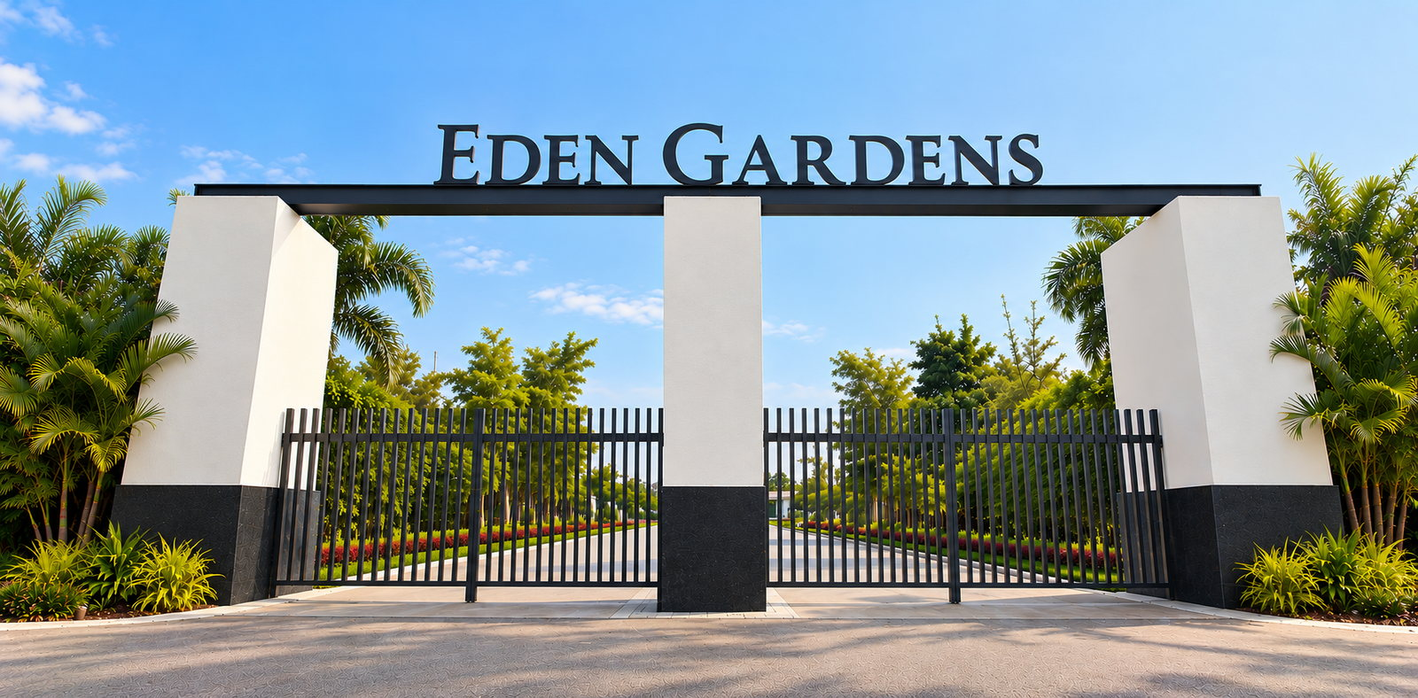
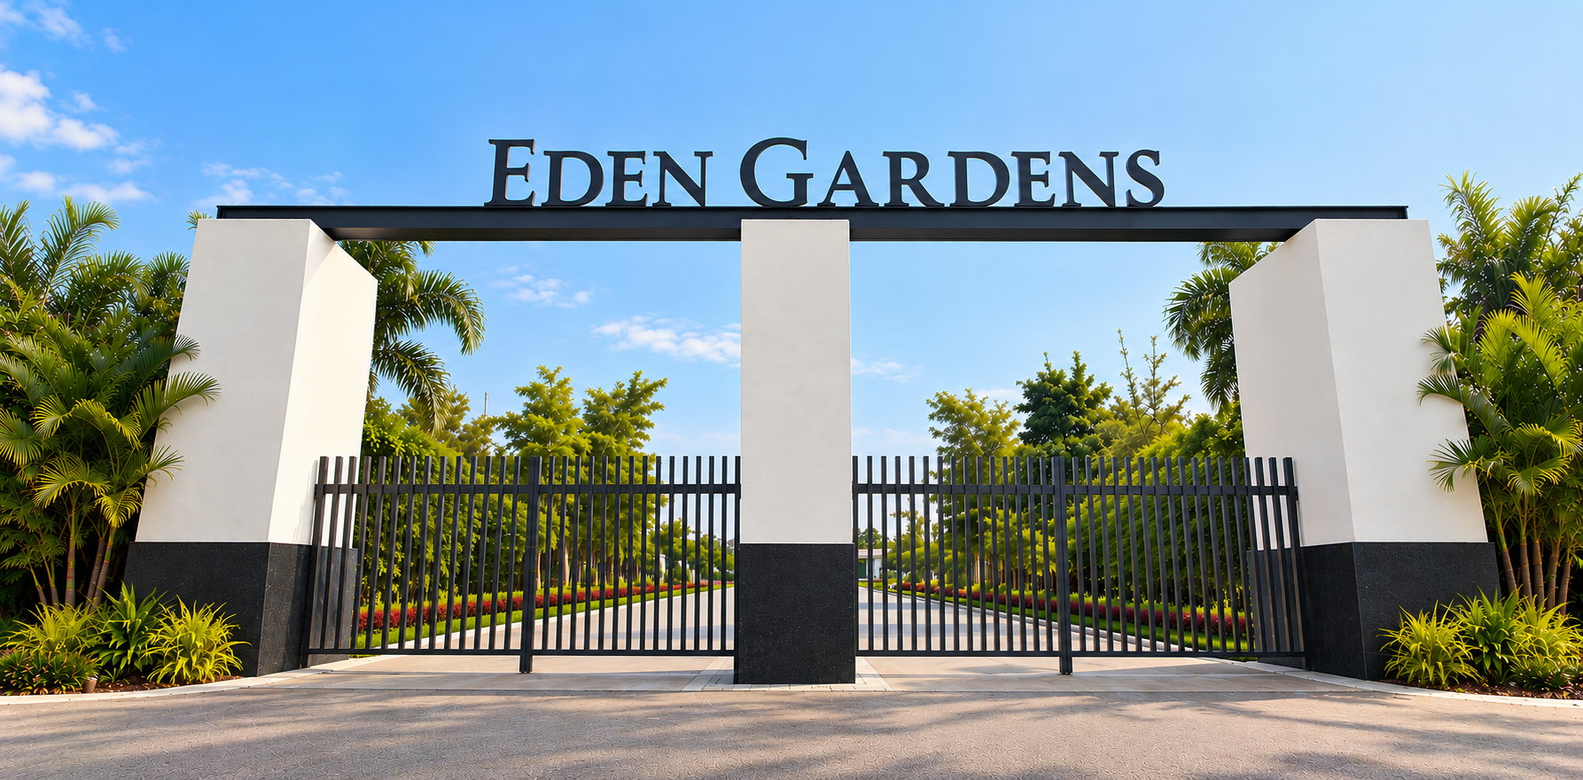
Home hero rebuilt as a full-screen stage: each arch fills the screen, drifts, and the next sweeps in behind a gold line; rail of all five; header menu holds one line

diff --git a/assets/style.css b/assets/style.css
@@ -698,57 +698,95 @@ html { scrollbar-width: thin; scrollbar-color: var(--mist) var(--paper); }
 .tile .status { position: static; align-self: flex-start; margin: 34px 32px 0; max-width: calc(100% - 64px); }
 .tile .inner { position: static; width: 100%; margin: auto auto 0; padding-top: 28px; }
 
-/* ---------- home hero: the wall of arches ----------
-   Five entrances, all in view: one large, four small. Every few seconds they change places.
-   Statement on the left, the wall on the right; on narrow screens the wall sits above the statement. */
-.hero-wall { display: grid; grid-template-columns: minmax(0, 46fr) minmax(0, 54fr); grid-template-rows: minmax(calc(100vh - 87px), auto); align-items: stretch; padding: 87px 0 0; }
-.hero-wall::after { display: none; }
-.hero-wall .inner { order: 1; align-self: center; max-width: none; margin: 0; padding: 40px 40px 48px max(32px, calc((100vw - var(--maxw)) / 2 + 32px)); container-type: inline-size; }
-.hero-wall h1 { max-width: none; font-size: clamp(1.7rem, 2.6vw, 2.5rem); line-height: 1.18; }
-@supports (font-size: 1cqw) { .hero-wall h1 { font-size: clamp(1.45rem, 8.05cqw, 3.1rem); } }   /* sized to its column, so each sentence holds one line */
-.hero-wall h1 span { display: block; white-space: nowrap; }
-.hero-wall .lede { max-width: 40ch; text-wrap: balance; }
-.wall { order: 2; display: grid; grid-template-columns: 1fr 1fr; grid-template-rows: 57fr 21.5fr 21.5fr; gap: 4px; background: var(--ink); min-height: 0; }
-.wslot { position: relative; overflow: hidden; background: var(--ink-soft); min-height: 0; }
-.wslot-0 { grid-column: 1 / -1; }
-.wl { position: absolute; inset: 0; display: block; opacity: 0; pointer-events: none; transition: opacity 1.3s ease; color: #fff; text-decoration: none; }
-.wl.on { opacity: 1; pointer-events: auto; }
-.wimg { position: absolute; inset: 0; background-size: cover; background-position: 50% 50%; transform: scale(1); transition: transform 10s linear; }
-.wslot-0 .wl.on .wimg { transform: scale(1.06); }
-.wl::after { content: ""; position: absolute; left: 0; right: 0; bottom: 0; height: 46%; background: linear-gradient(to top, rgba(13,11,7,0.78), rgba(13,11,7,0)); }
-.wcap { position: absolute; left: 18px; right: 18px; bottom: 13px; z-index: 1; display: flex; flex-wrap: wrap; align-items: baseline; gap: 2px 12px; }
-.wcap b { font-weight: 500; font-size: 0.62rem; letter-spacing: 0.24em; text-transform: uppercase; color: var(--champagne); }
-.wcap i { font-style: normal; font-size: 0.8rem; letter-spacing: 0.02em; color: #fff; }
-.wslot-0 .wcap { left: 26px; bottom: 20px; }
-.wslot-0 .wcap b { font-size: 0.7rem; }
-.wslot-0 .wcap i { font-family: "Fraunces", Georgia, serif; font-size: 1.35rem; font-weight: 400; }
-.wnote { flex-basis: 100%; font-size: 0.5rem; letter-spacing: 0.06em; line-height: 1.5; color: rgba(255,255,255,0.72); }   /* a footnote under the caption, on the dark of the tile */
-.wl:focus-visible { outline: 2px solid var(--champagne); outline-offset: -4px; }
-/* where each picture is held, so the name on the arch stays in frame at every tile shape */
-.p-parkcentral .wimg { background-position: 27% 45%; }
-.p-greens .wimg { background-position: 50% 22%; }
-.p-fortunefields .wimg { background-position: 50% 45%; }
-.p-edengardens .wimg { background-position: 50% 50%; }
-.p-dreamacres .wimg { background-position: 50% 38%; }
-@media (max-width: 1023px) {
-  .hero-wall { display: block; min-height: 0; padding: 87px 0 0; }
-  .hero-wall .inner { padding: 34px 32px 44px; }
-  .hero-wall h1 { font-size: clamp(1.4rem, 6.3vw, 2.6rem); }
-  @supports (font-size: 1cqw) { .hero-wall h1 { font-size: clamp(1.4rem, 8.05cqw, 2.9rem); } }
-  .wall { grid-template-rows: none; gap: 3px; }
-  .wslot { aspect-ratio: 2 / 1; }
-  .wslot-0 { aspect-ratio: 16 / 9.4; }
-  .wcap { left: 11px; right: 8px; bottom: 8px; gap: 1px 8px; }
-  .wcap b { font-size: 0.5rem; letter-spacing: 0.18em; }
-  .wcap i { font-size: 0.68rem; }
-  .wslot:not(.wslot-0) .wn { display: none; }                 /* small tiles: the arch itself carries the name */
-  .wslot-0 .wcap { left: 16px; bottom: 14px; }
-  .wslot-0 .wcap b { font-size: 0.6rem; }
-  .wslot-0 .wcap i { font-size: 1.12rem; }
-  .wnote { font-size: 0.44rem; }
+/* ---------- home hero: the stage ----------
+   One entrance at a time fills the screen and never sits still: it drifts forward, and the next one sweeps in
+   behind a thin gold line. All five stay in view on a rail; the rail shows whose turn it is and lets you choose. */
+.hero-stage { display: grid; grid-template-columns: minmax(0, 1fr) auto; grid-template-rows: minmax(calc(100vh - 87px), auto); align-items: end; padding: 87px 0 0; min-height: 100vh; overflow: hidden; }
+.hero-stage::after { display: none; }
+.st-bg { position: absolute; inset: 87px 0 0 0; z-index: -2; overflow: hidden; background: var(--ink); }   /* starts below the fixed header, so no arch hides behind it */
+.st-img { position: absolute; inset: -1.5%; opacity: 0; }
+.st-img.on, .st-img.out { opacity: 1; }
+.st-img.on { z-index: 2; }
+.st-img.out { z-index: 1; }
+.st-pic { position: absolute; inset: 0; width: 100%; height: 100%; object-fit: cover; object-position: 50% 50%; transform: scale(1.03); will-change: transform; }
+.st-pic:not([src]) { visibility: hidden; }
+.st-img.on .st-pic, .st-img.out .st-pic { animation: stPush 9s linear both; }
+.st-img.in { animation: stWipe 1.25s cubic-bezier(.77,0,.18,1) both; }
+.st-img.in .st-pic { animation: stEnter 1.25s cubic-bezier(.77,0,.18,1) both, stPush 9s linear 1.25s forwards; }
+@keyframes stPush { from { transform: scale(1.03) translate3d(0,0,0); } to { transform: scale(1.12) translate3d(-0.8%, -0.6%, 0); } }
+@keyframes stEnter { from { transform: scale(1.12) translate3d(4%,0,0); } to { transform: scale(1.03) translate3d(0,0,0); } }
+@keyframes stWipe { from { clip-path: inset(0 0 0 100%); } to { clip-path: inset(0 0 0 0); } }
+.st-edge { position: absolute; top: 0; bottom: 0; left: 100%; width: 2px; z-index: 3; background: var(--champagne); opacity: 0; pointer-events: none; }
+.st-edge.run { animation: stEdge 1.25s cubic-bezier(.77,0,.18,1) both; }
+@keyframes stEdge { 0% { left: 100%; opacity: 0.95; } 85% { opacity: 0.95; } 100% { left: 0%; opacity: 0; } }
+.st-scrim { position: absolute; inset: 87px 0 0 0; z-index: -1; pointer-events: none;
+  background:
+    radial-gradient(ellipse 58% 78% at 0% 100%, rgba(13,11,7,0.94) 0%, rgba(13,11,7,0.74) 42%, rgba(13,11,7,0) 78%),
+    radial-gradient(ellipse 58% 80% at 100% 100%, rgba(13,11,7,0.86) 0%, rgba(13,11,7,0.50) 40%, rgba(13,11,7,0) 72%),
+    linear-gradient(to top, rgba(13,11,7,0.72) 0%, rgba(13,11,7,0.18) 30%, rgba(13,11,7,0) 52%); }
+.hero-stage .inner { max-width: none; margin: 0; padding: 0 32px 7vh max(32px, calc((100vw - var(--maxw)) / 2 + 32px)); }
+.hero-stage h1 { max-width: none; font-size: clamp(1.7rem, min(3.3vw, 6.4vh), 3.2rem); line-height: 1.14; text-shadow: 0 2px 20px rgba(13,11,7,0.7), 0 0 2px rgba(13,11,7,0.35); }
+.hero-stage h1 span { display: block; white-space: nowrap; }
+.hero-stage .lede { max-width: 42ch; margin-top: 20px; text-wrap: balance; color: #E9E3D4; text-shadow: 0 1px 14px rgba(13,11,7,0.6); }
+.hero-stage .eyebrow { text-shadow: 0 1px 12px rgba(13,11,7,0.8); }
+/* right-hand side: who is on stage, and the rail of all five */
+.st-side { justify-self: end; display: flex; flex-direction: column; align-items: flex-end; gap: 22px; padding: 0 118px 7vh 32px; color: #fff; }
+.st-now { display: grid; justify-items: end; }
+.st-cap { grid-area: 1 / 1; display: grid; justify-items: end; gap: 3px; text-align: right; color: #fff; text-decoration: none; opacity: 0; transform: translateY(14px); pointer-events: none; transition: opacity 0.6s ease, transform 0.8s cubic-bezier(.2,.7,.2,1); }
+.st-cap.on { opacity: 1; transform: none; pointer-events: auto; transition-delay: 0.45s; }
+.st-cap b { font-weight: 600; font-size: 0.68rem; letter-spacing: 0.3em; text-transform: uppercase; color: var(--champagne); text-shadow: 0 1px 12px rgba(13,11,7,0.85); }
+.st-cap strong { font-family: "Fraunces", Georgia, serif; font-weight: 400; font-size: clamp(1.6rem, 2.5vw, 2.5rem); line-height: 1.1; text-shadow: 0 2px 22px rgba(13,11,7,0.5); }
+.st-cap i { font-style: normal; font-size: 0.9rem; letter-spacing: 0.06em; color: #E9E3D4; }
+.st-cap small { font-size: 0.52rem; letter-spacing: 0.06em; color: rgba(255,255,255,0.72); }
+.st-cap .go { margin-top: 10px; font-size: 0.7rem; font-weight: 600; letter-spacing: 0.28em; text-transform: uppercase; border-bottom: 1px solid var(--gold); padding-bottom: 5px; }
+.st-cap:hover .go { color: var(--champagne); }
+.st-rail { display: flex; gap: 10px; }
+.st-card { position: relative; width: clamp(88px, 8.6vw, 136px); padding: 0; border: 0; background: none; color: #fff; cursor: pointer; text-align: left; font: inherit; }
+.st-thumb { display: block; width: 100%; aspect-ratio: 16 / 9; background-size: cover; background-position: 50% 35%; opacity: 0.62; filter: saturate(0.8); transition: opacity 0.4s, filter 0.4s, transform 0.5s cubic-bezier(.2,.7,.2,1); outline: 1px solid rgba(255,255,255,0.22); outline-offset: -1px; }
+.st-card:hover .st-thumb, .st-card.on .st-thumb { opacity: 1; filter: none; }
+.st-card.on .st-thumb { transform: translateY(-5px); outline-color: var(--champagne); }
+.st-card em { display: block; margin-top: 8px; font-style: normal; font-size: 0.56rem; font-weight: 500; letter-spacing: 0.18em; text-transform: uppercase; color: rgba(255,255,255,0.7); white-space: nowrap; overflow: hidden; text-overflow: ellipsis; }
+.st-card.on em { color: var(--champagne); }
+.st-bar { position: absolute; left: 0; top: -5px; height: 2px; width: 0; background: var(--champagne); }
+.st-card.on .st-bar { animation: stBar var(--dwell, 5.6s) linear both; }
+.hero-stage.paused .st-card.on .st-bar { animation-play-state: paused; }
+@keyframes stBar { from { width: 0; } to { width: 100%; } }
+.st-card:focus-visible .st-thumb, .st-cap:focus-visible { outline: 2px solid var(--champagne); outline-offset: 3px; }
+.st-img.p-parkcentral .st-pic { object-position: 30% 42%; }
+.st-img.p-greens .st-pic { object-position: 50% 19%; }
+.st-img.p-fortunefields .st-pic { object-position: 50% 42%; }
+.st-img.p-edengardens .st-pic { object-position: 50% 45%; }
+.st-img.p-dreamacres .st-pic { object-position: 50% 36%; }
+@media (max-width: 1180px) { .st-cap strong { font-size: 1.7rem; } .st-side { padding-right: 104px; } }
+/* short windows (a laptop with toolbars open): the statement steps back so the arch keeps the stage */
+@media (min-width: 901px) and (max-height: 720px) {
+  .hero-stage .lede { display: none; }
+  .hero-stage .inner, .st-side { padding-bottom: 5vh; }
+  .st-side { gap: 14px; }
+  .st-cap .go { margin-top: 6px; }
 }
-@media (prefers-reduced-motion: reduce) { .wslot-0 .wl.on .wimg { transform: none; } }
-
+@media (max-width: 900px) {
+  /* phones and small tablets: the stage on top, then the rail, then the statement */
+  .hero-stage { display: flex; flex-direction: column; align-items: stretch; min-height: 0; padding: 87px 0 0; }
+  .st-bg { order: 1; } .st-side { order: 2; } .hero-stage .inner { order: 3; }
+  .st-bg { position: relative; inset: auto; z-index: 0; height: clamp(250px, 74vw, 56vh); }
+  .st-scrim { display: none; }
+  .st-side { align-items: stretch; gap: 14px; padding: 18px 20px 4px; justify-self: auto; }
+  .st-now, .st-cap { justify-items: start; text-align: left; }
+  .st-cap { grid-template-columns: auto 1fr; align-items: baseline; column-gap: 12px; }
+  .st-cap strong { grid-column: 1 / -1; grid-row: 1; font-size: 1.7rem; }
+  .st-cap b { grid-row: 2; } .st-cap i { grid-row: 2; }
+  .st-cap small { grid-column: 1 / -1; }
+  .st-cap .go { display: none; }
+  .st-rail { display: grid; grid-template-columns: repeat(5, 1fr); gap: 6px; padding-top: 6px; }
+  .st-card { width: auto; }
+  .st-card em { font-size: 0.46rem; letter-spacing: 0.1em; white-space: normal; line-height: 1.35; margin-top: 6px; }
+  .st-card.on .st-thumb { transform: none; }
+  .hero-stage .inner { padding: 30px 20px 44px; width: auto; }
+  .hero-stage h1 { font-size: clamp(1.5rem, 7.2vw, 2.6rem); text-shadow: none; }
+  .hero-stage .lede, .hero-stage .eyebrow { text-shadow: none; }
+}
+@media (prefers-reduced-motion: reduce) { .st-pic { transform: none; } }
 
 /* ---------- Park Central: site photographs ---------- */
 .pc-gallery { display: grid; grid-template-columns: 1fr 1fr; gap: 10px; }
@@ -756,3 +794,12 @@ html { scrollbar-width: thin; scrollbar-color: var(--mist) var(--paper); }
 .pc-gallery img { display: block; width: 100%; aspect-ratio: 4 / 3; object-fit: cover; }
 .pc-gallery figcaption { position: absolute; left: 0; right: 0; bottom: 0; padding: 34px 18px 13px; color: #fff; font-size: 0.72rem; letter-spacing: 0.2em; text-transform: uppercase; background: linear-gradient(to top, rgba(13,11,7,0.72), rgba(13,11,7,0)); }
 @media (max-width: 560px) { .pc-gallery { grid-template-columns: 1fr; } }
+
+/* ---------- header: the menu holds one line on small laptops and tablets held sideways ---------- */
+.nav a { white-space: nowrap; }
+@media (min-width: 901px) and (max-width: 1180px) {
+  .site-header .bar { gap: 16px; padding-left: 24px; padding-right: 24px; }
+  .nav { gap: 20px; }
+  .nav a { letter-spacing: 0.14em; }
+}
+

diff --git a/index.html b/index.html
@@ -10,7 +10,7 @@
 <link rel="preconnect" href="https://fonts.googleapis.com">
 <link rel="preconnect" href="https://fonts.gstatic.com" crossorigin>
 <link href="https://fonts.googleapis.com/css2?family=Fraunces:opsz,wght@9..144,400;9..144,500;9..144,600&family=Archivo:wght@400;500;600&display=swap" rel="stylesheet">
-<link rel="stylesheet" href="/assets/style.css?v=24">
+<link rel="stylesheet" href="/assets/style.css?v=25">
 <meta property="og:title" content="Epic Developers">
 <meta property="og:description" content="Premium developers of approved open plot layouts and select farm sites in Hyderabad since 2016. Now selling: Park Central at Dundigal and The Greens at Kadthal. Launching soon: Fortune Fields at Yacharam. Delivered and sold out: Eden Gardens at Mokila and Dream Acres at Dasarlapally.">
 <meta property="og:image" content="https://epicdevelopers.in/assets/img/share-arch.jpg">
@@ -34,43 +34,36 @@
   </div>
 </header>
 
-<section class="hero hero-wall">
-  <div class="wall" id="arch-wall">
-    <div class="wslot wslot-0">
-      <a class="wl on p-parkcentral" href="/parkcentral/" data-p="0" aria-label="Park Central, Dundigal &mdash; Selling now">
-        <span class="wimg" style="background-image:url('/assets/img/arch-parkcentral.jpg')"></span>
-        <span class="wcap"><b>Selling now</b><i><span class="wn">Park Central, </span>Dundigal</i></span>
-      </a>
-    </div>
-    <div class="wslot wslot-1">
-      <a class="wl on p-greens" href="/the-greens/" data-p="1" aria-label="The Greens, Kadthal &mdash; Selling now">
-        <span class="wimg" style="background-image:url('/assets/img/arch-greens.jpg')"></span>
-        <span class="wcap"><b>Selling now</b><i><span class="wn">The Greens, </span>Kadthal</i><small class="wnote">Artist&rsquo;s impression - 3D render</small></span>
-      </a>
-    </div>
-    <div class="wslot wslot-2">
-      <a class="wl on p-fortunefields" href="/#upcoming" data-p="2" aria-label="Fortune Fields, Yacharam &mdash; Launching soon">
-        <span class="wimg" style="background-image:url('/assets/img/arch-fortunefields.jpg')"></span>
-        <span class="wcap"><b>Launching soon</b><i><span class="wn">Fortune Fields, </span>Yacharam</i><small class="wnote">Artist&rsquo;s impression - 3D render</small></span>
-      </a>
-    </div>
-    <div class="wslot wslot-3">
-      <a class="wl on p-edengardens" href="/edengardens/" data-p="3" aria-label="Eden Gardens, Mokila &mdash; Delivered">
-        <span class="wimg" style="background-image:url('/assets/img/arch-edengardens.jpg')"></span>
-        <span class="wcap"><b>Delivered</b><i><span class="wn">Eden Gardens, </span>Mokila</i></span>
-      </a>
-    </div>
-    <div class="wslot wslot-4">
-      <a class="wl on p-dreamacres" href="/dreamacres/" data-p="4" aria-label="Dream Acres, Dasarlapally &mdash; Delivered">
-        <span class="wimg" style="background-image:url('/assets/img/arch-dreamacres.jpg')"></span>
-        <span class="wcap"><b>Delivered</b><i><span class="wn">Dream Acres, </span>Dasarlapally</i></span>
-      </a>
-    </div>
+<section class="hero hero-stage" id="stage">
+  <div class="st-bg" aria-hidden="true">
+    <div class="st-img p-parkcentral on" data-p="0"><img class="st-pic" src="/assets/img/arch-parkcentral.jpg" alt="" decoding="async" fetchpriority="high"></div>
+    <div class="st-img p-greens" data-p="1"><img class="st-pic" data-src="/assets/img/arch-greens.jpg" alt="" decoding="async"></div>
+    <div class="st-img p-fortunefields" data-p="2"><img class="st-pic" data-src="/assets/img/arch-fortunefields.jpg" alt="" decoding="async"></div>
+    <div class="st-img p-edengardens" data-p="3"><img class="st-pic" data-src="/assets/img/arch-edengardens.jpg" alt="" decoding="async"></div>
+    <div class="st-img p-dreamacres" data-p="4"><img class="st-pic" data-src="/assets/img/arch-dreamacres.jpg" alt="" decoding="async"></div>
+    <span class="st-edge"></span>
   </div>
+  <div class="st-scrim" aria-hidden="true"></div>
   <div class="inner">
     <span class="eyebrow">Epic Developers &middot; Hyderabad &middot; Since 2016</span>
     <h1><span>Premium land.</span> <span>Thriving locations.</span> <span>Legacy addresses.</span></h1>
     <p class="lede">Plotted developments and farm properties planned meticulously and delivered with obsessive attention to detail.</p>
+  </div>
+  <div class="st-side">
+    <div class="st-now">
+      <a class="st-cap on" data-p="0" href="/parkcentral/"><b>Selling now</b><strong>Park Central</strong><i>Dundigal</i><span class="go">View project</span></a>
+      <a class="st-cap" data-p="1" href="/the-greens/"><b>Selling now</b><strong>The Greens</strong><i>Kadthal</i><small>Artist&rsquo;s impression - 3D render</small><span class="go">View project</span></a>
+      <a class="st-cap" data-p="2" href="/#upcoming"><b>Launching soon</b><strong>Fortune Fields</strong><i>Yacharam</i><small>Artist&rsquo;s impression - 3D render</small><span class="go">View project</span></a>
+      <a class="st-cap" data-p="3" href="/edengardens/"><b>Delivered</b><strong>Eden Gardens</strong><i>Mokila</i><span class="go">View project</span></a>
+      <a class="st-cap" data-p="4" href="/dreamacres/"><b>Delivered</b><strong>Dream Acres</strong><i>Dasarlapally</i><span class="go">View project</span></a>
+    </div>
+    <div class="st-rail" role="group" aria-label="Our projects">
+      <button type="button" class="st-card on" data-p="0" aria-label="Show Park Central"><span class="st-thumb" style="background-image:url('/assets/img/arch-parkcentral-s.jpg')"></span><em>Park Central</em><i class="st-bar"></i></button>
+      <button type="button" class="st-card" data-p="1" aria-label="Show The Greens"><span class="st-thumb" style="background-image:url('/assets/img/arch-greens-s.jpg')"></span><em>The Greens</em><i class="st-bar"></i></button>
+      <button type="button" class="st-card" data-p="2" aria-label="Show Fortune Fields"><span class="st-thumb" style="background-image:url('/assets/img/arch-fortunefields-s.jpg')"></span><em>Fortune Fields</em><i class="st-bar"></i></button>
+      <button type="button" class="st-card" data-p="3" aria-label="Show Eden Gardens"><span class="st-thumb" style="background-image:url('/assets/img/arch-edengardens-s.jpg')"></span><em>Eden Gardens</em><i class="st-bar"></i></button>
+      <button type="button" class="st-card" data-p="4" aria-label="Show Dream Acres"><span class="st-thumb" style="background-image:url('/assets/img/arch-dreamacres-s.jpg')"></span><em>Dream Acres</em><i class="st-bar"></i></button>
+    </div>
   </div>
 </section>
 
@@ -239,6 +232,6 @@
   <svg viewBox="0 0 32 32" width="30" height="30" fill="currentColor" aria-hidden="true"><path d="M16 3C9.4 3 4 8.3 4 14.9c0 2.6.8 5 2.3 7L4 29l7.3-2.3c1.9 1 4 1.6 6.2 1.6h.5c6.6 0 12-5.3 12-11.9C30 8.3 24.6 3 16 3zm7 16.9c-.3.8-1.7 1.6-2.4 1.7-.6.1-1.4.2-2.3-.1-.5-.2-1.2-.4-2.1-.8-3.7-1.6-6.1-5.3-6.3-5.6-.2-.2-1.5-2-1.5-3.8s1-2.7 1.3-3.1c.3-.3.7-.4 1-.4h.7c.2 0 .5-.1.8.6.3.8 1.1 2.7 1.2 2.9.1.2.2.4 0 .7-.1.2-.2.4-.4.6l-.6.7c-.2.2-.4.4-.2.8.2.3 1 1.6 2.1 2.6 1.4 1.3 2.6 1.7 3 1.9.4.2.6.1.8-.1.2-.2 1-1.1 1.2-1.5.3-.4.5-.3.9-.2.4.1 2.2 1.1 2.6 1.3.4.2.6.3.7.4.1.3.1 1-.2 1.8z"/></svg>
 </button>
 
-<script src="/assets/main.js?v=24"></script>
+<script src="/assets/main.js?v=25"></script>
 </body>
 </html>

diff --git a/assets/main.js b/assets/main.js
@@ -49,41 +49,69 @@ document.addEventListener("DOMContentLoaded", function () {
   }
 });
 
-// home hero: the wall of arches. Five slots, five projects; every few seconds each project moves on one slot.
+// home hero: the stage. One entrance fills the screen, the next sweeps in; a rail shows all five and whose turn it is.
 document.addEventListener("DOMContentLoaded", function () {
-  var wall = document.getElementById("arch-wall");
-  if (wall) {
-    var slots = Array.prototype.slice.call(wall.querySelectorAll(".wslot"));
-    var own = slots.map(function (s) { return s.querySelector(".wl"); });
-    var n = own.length;
-    // each slot gets a copy of every project (the page itself ships one per slot, so it reads fine without script)
-    slots.forEach(function (slot, si) {
-      own.forEach(function (layer, pi) {
-        if (pi === si) return;
-        var c = layer.cloneNode(true); c.classList.remove("on"); c.setAttribute("tabindex", "-1"); c.setAttribute("aria-hidden", "true");
-        slot.appendChild(c);
-      });
-    });
-    var k = 0, timer = null;
-    function show() {
-      slots.forEach(function (slot, si) {
-        var want = String((si + k) % n);
-        slot.querySelectorAll(".wl").forEach(function (l) {
-          var on = l.getAttribute("data-p") === want;
-          l.style.transitionDelay = (si * 0.14) + "s";
-          l.classList.toggle("on", on);
-          if (on) { l.removeAttribute("tabindex"); l.removeAttribute("aria-hidden"); } else { l.setAttribute("tabindex", "-1"); l.setAttribute("aria-hidden", "true"); }
-        });
+  var stage = document.getElementById("stage");
+  if (stage) {
+    var imgs = Array.prototype.slice.call(stage.querySelectorAll(".st-img"));
+    var caps = Array.prototype.slice.call(stage.querySelectorAll(".st-cap"));
+    var cards = Array.prototype.slice.call(stage.querySelectorAll(".st-card"));
+    var edge = stage.querySelector(".st-edge");
+    var n = imgs.length, k = 0, timer = null, busy = false, DWELL = 5600;
+    var still = window.matchMedia("(prefers-reduced-motion: reduce)").matches;
+    stage.style.setProperty("--dwell", DWELL + "ms");
+    // the first picture ships with the page; the others arrive once the page itself has loaded
+    function ready(i, then) {
+      var pic = imgs[i].firstElementChild, src = pic.getAttribute("data-src"), done = false;
+      function fin() { if (!done) { done = true; if (then) then(); } }
+      if (src) { pic.removeAttribute("data-src"); pic.src = src; }
+      // wait until the picture is fully decoded, so a sweep never reveals a half-drawn image
+      if (pic.decode) pic.decode().then(fin, fin); else if (pic.complete) fin(); else { pic.onload = fin; pic.onerror = fin; }
+    }
+    function preloadAll() { imgs.forEach(function (_, i) { ready(i); }); }
+    if (document.readyState === "complete") preloadAll(); else window.addEventListener("load", preloadAll);
+    function mark(i) {
+      caps.forEach(function (c, x) { c.classList.toggle("on", x === i); if (x === i) c.removeAttribute("tabindex"); else c.setAttribute("tabindex", "-1"); });
+      cards.forEach(function (c, x) { c.classList.remove("on"); if (x === i) { void c.offsetWidth; c.classList.add("on"); } c.setAttribute("aria-pressed", x === i ? "true" : "false"); });
+    }
+    function go(i) {
+      i = (i + n) % n;
+      if (i === k || busy) return;
+      busy = true;
+      ready(i, function () {
+        var prev = imgs[k], next = imgs[i];
+        prev.classList.remove("on", "in"); prev.classList.add("out");
+        next.classList.remove("out");
+        if (still) { next.classList.add("on"); prev.classList.remove("out"); busy = false; }
+        else {
+          next.classList.add("on", "in");
+          if (edge) { edge.classList.remove("run"); void edge.offsetWidth; edge.classList.add("run"); }
+          setTimeout(function () { prev.classList.remove("out"); next.classList.remove("in"); busy = false; }, 1300);
+        }
+        k = i; mark(k);
       });
     }
-    function start() { if (!timer) timer = setInterval(function () { k = (k + 1) % n; show(); }, 5600); }
-    function stop() { clearInterval(timer); timer = null; }
-    if (!window.matchMedia("(prefers-reduced-motion: reduce)").matches) {
-      start();
-      wall.addEventListener("mouseenter", stop); wall.addEventListener("mouseleave", start);     // hold still while someone is choosing a tile
-      wall.addEventListener("focusin", stop); wall.addEventListener("focusout", start);
-      document.addEventListener("visibilitychange", function () { if (document.hidden) stop(); else start(); });
+    function start() { if (!timer && !still) { timer = setInterval(function () { go(k + 1); }, DWELL); stage.classList.remove("paused"); } }
+    function stop() { clearInterval(timer); timer = null; stage.classList.add("paused"); }
+    cards.forEach(function (c, i) { c.addEventListener("click", function () { stop(); go(i); start(); }); });
+    var side = stage.querySelector(".st-side");
+    if (side) { side.addEventListener("mouseenter", stop); side.addEventListener("mouseleave", start); side.addEventListener("focusin", stop); side.addEventListener("focusout", start); }
+    document.addEventListener("visibilitychange", function () { if (document.hidden) stop(); else start(); });
+    // the picture leans a little toward the pointer
+    var bg = stage.querySelector(".st-bg");
+    if (bg && !still && window.matchMedia("(hover: hover) and (min-width: 901px)").matches) {
+      stage.addEventListener("mousemove", function (e) {
+        var r = stage.getBoundingClientRect(), x = (e.clientX - r.left) / r.width - 0.5, y = (e.clientY - r.top) / r.height - 0.5;
+        bg.style.transform = "translate3d(" + (-x * 14).toFixed(1) + "px," + (-y * 9).toFixed(1) + "px,0)";
+      });
+      bg.style.transition = "transform 0.9s cubic-bezier(.2,.7,.2,1)";
+      stage.addEventListener("mouseleave", function () { bg.style.transform = ""; });
     }
+    mark(0); start();
+    // swipe on touch screens
+    var sx = null;
+    bg.addEventListener("touchstart", function (e) { sx = e.touches[0].clientX; }, { passive: true });
+    bg.addEventListener("touchend", function (e) { if (sx === null) return; var dx = e.changedTouches[0].clientX - sx; sx = null; if (Math.abs(dx) > 40) { stop(); go(k + (dx < 0 ? 1 : -1)); start(); } }, { passive: true });
   }
 
   // finder bar
